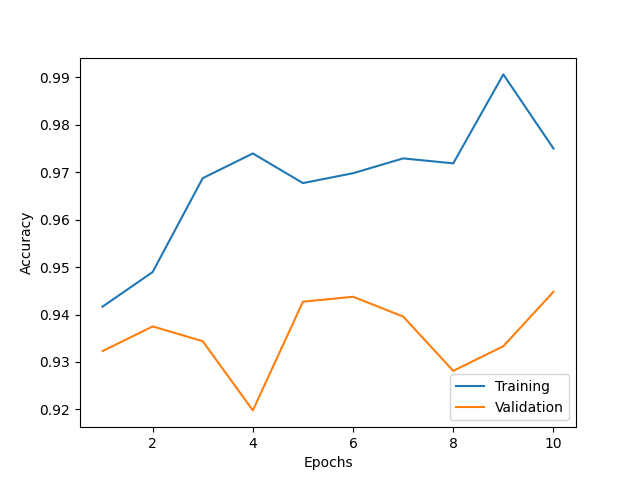
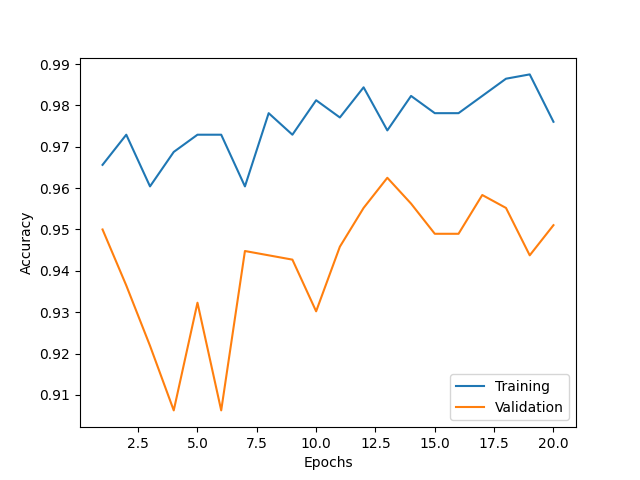
more experiments 🧪

diff --git a/src/training.py b/src/training.py
@@ -94,7 +94,7 @@ if __name__ == "__main__":
         'epochs': epochs
     }
     experiments = [
-        'grid'
+        'bottle'
     ]
     pbar = tqdm(range(len(experiments)))
     for i in pbar:
